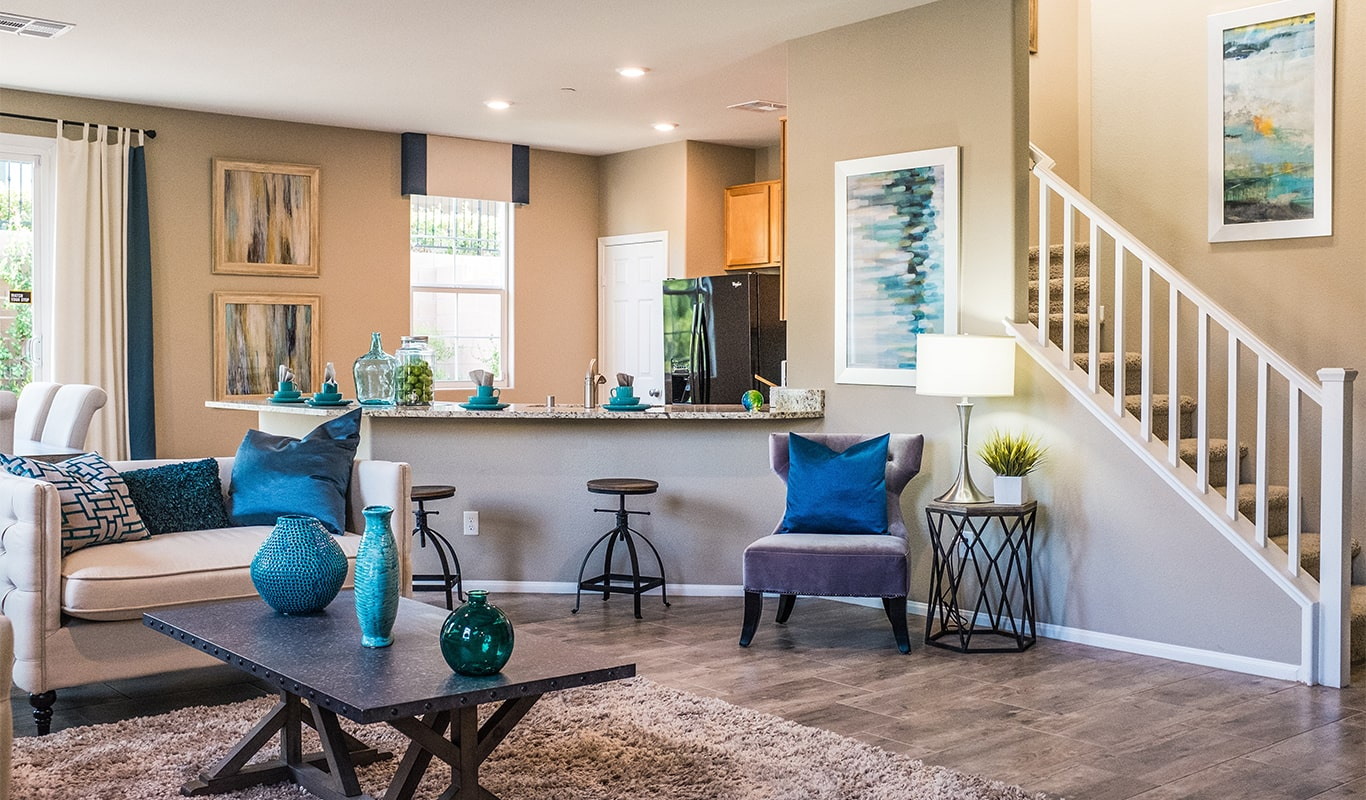
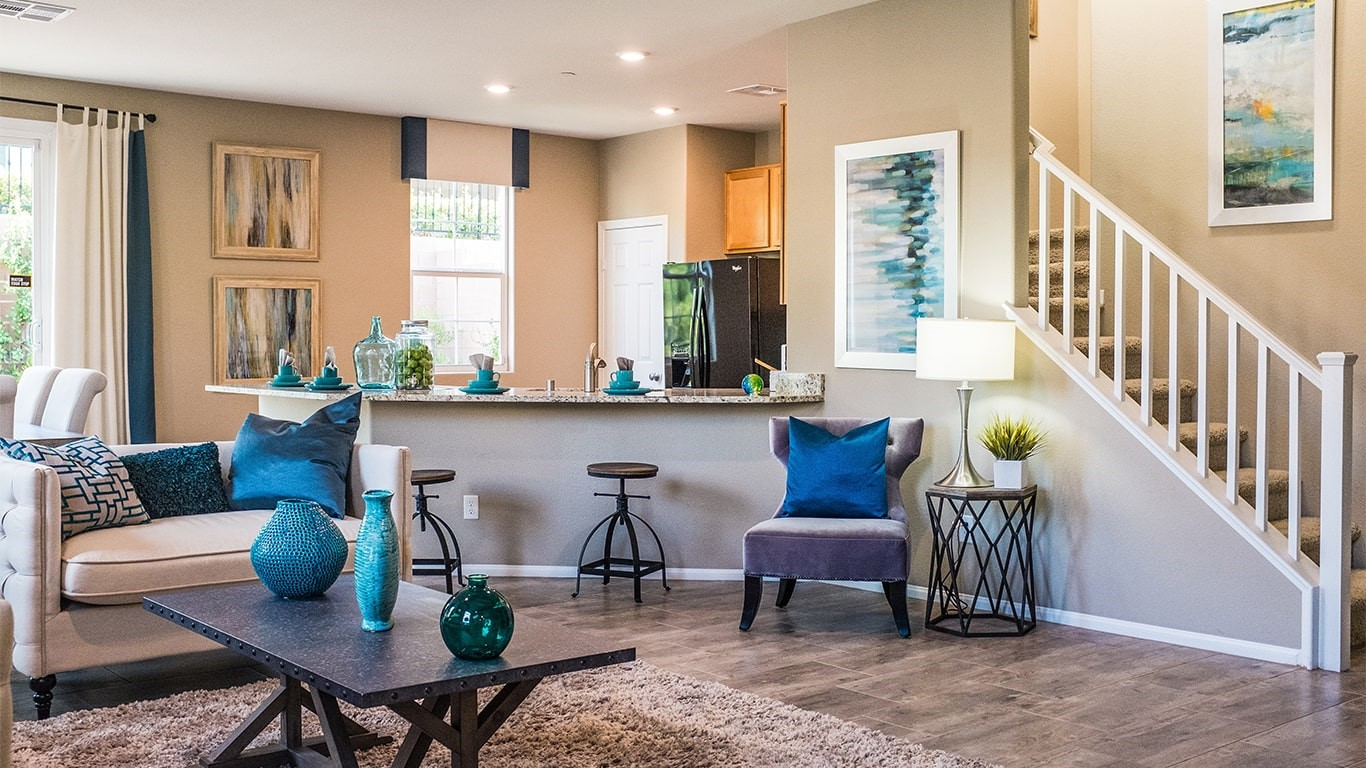
gmbar

diff --git a/index.html b/index.html
@@ -142,7 +142,7 @@
         <div id="header-carousel" class="carousel slide" data-ride="carousel">
             <div class="carousel-inner">
                 <div class="carousel-item active">
-                    <img class="w-100" src="img/carousel-1.jpg" alt="Image">
+                    <img class="w-100" src="img/homepic1.jpg" alt="Image">
                     <div class="carousel-caption d-flex flex-column align-items-center justify-content-center">
                         <div class="p-3" style="max-width: 800px;">
                             <h4 class="text-primary text-uppercase font-weight-normal mb-md-3">Creative Interior Design
@@ -153,7 +153,7 @@
                     </div>
                 </div>
                 <div class="carousel-item">
-                    <img class="w-100" src="img/carousel-2.jpg" alt="Image">
+                    <img class="w-100" src="img/homepic2.jpg" alt="Image">
                     <div class="carousel-caption d-flex flex-column align-items-center justify-content-center">
                         <div class="p-3" style="max-width: 800px;">
                             <h4 class="text-primary text-uppercase font-weight-normal mb-md-3">Creative Interior Design
